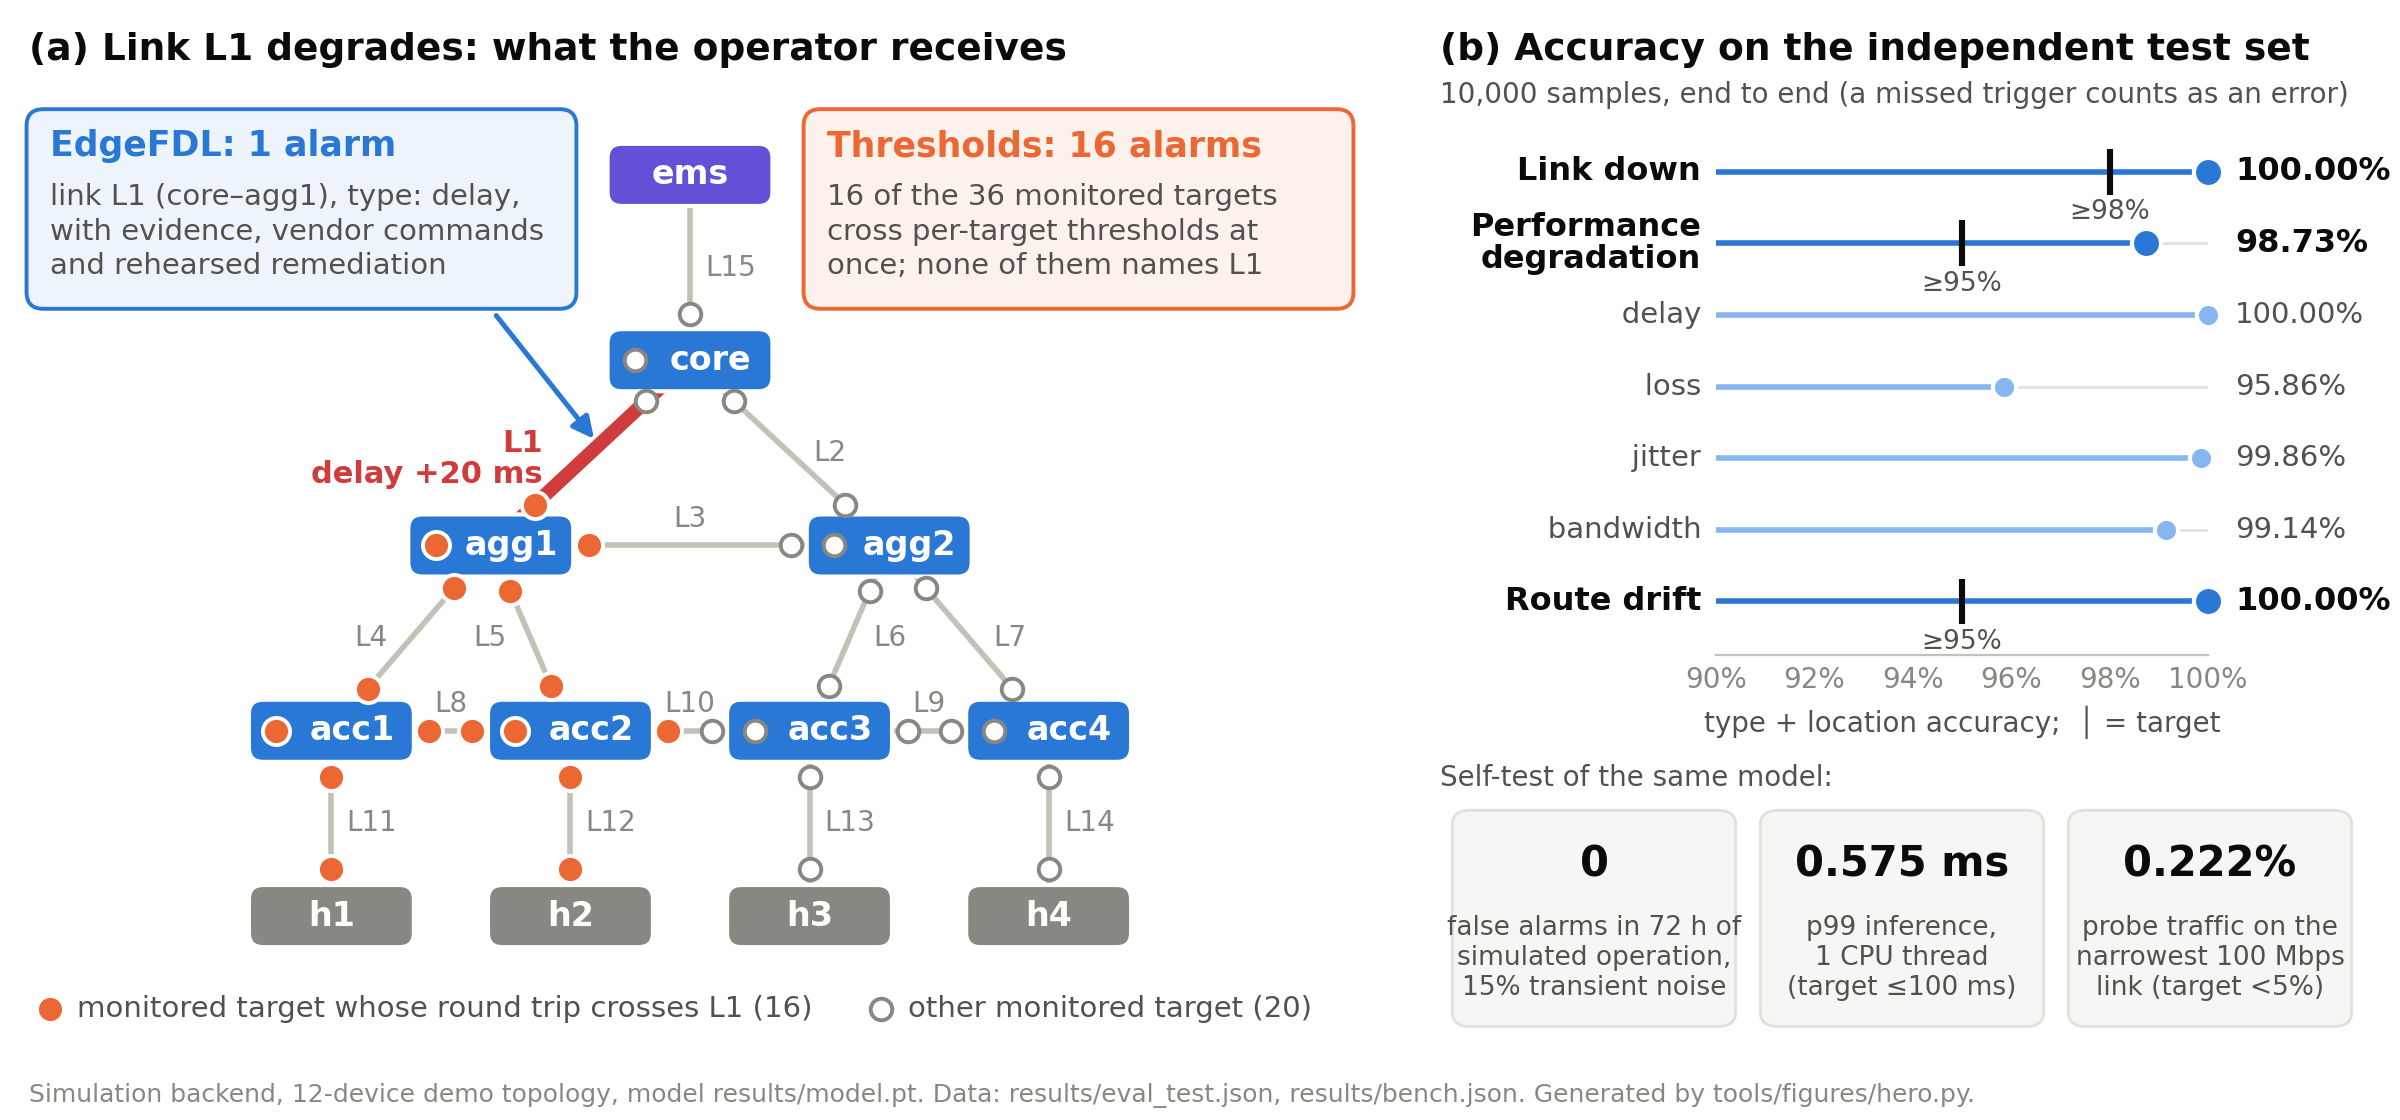
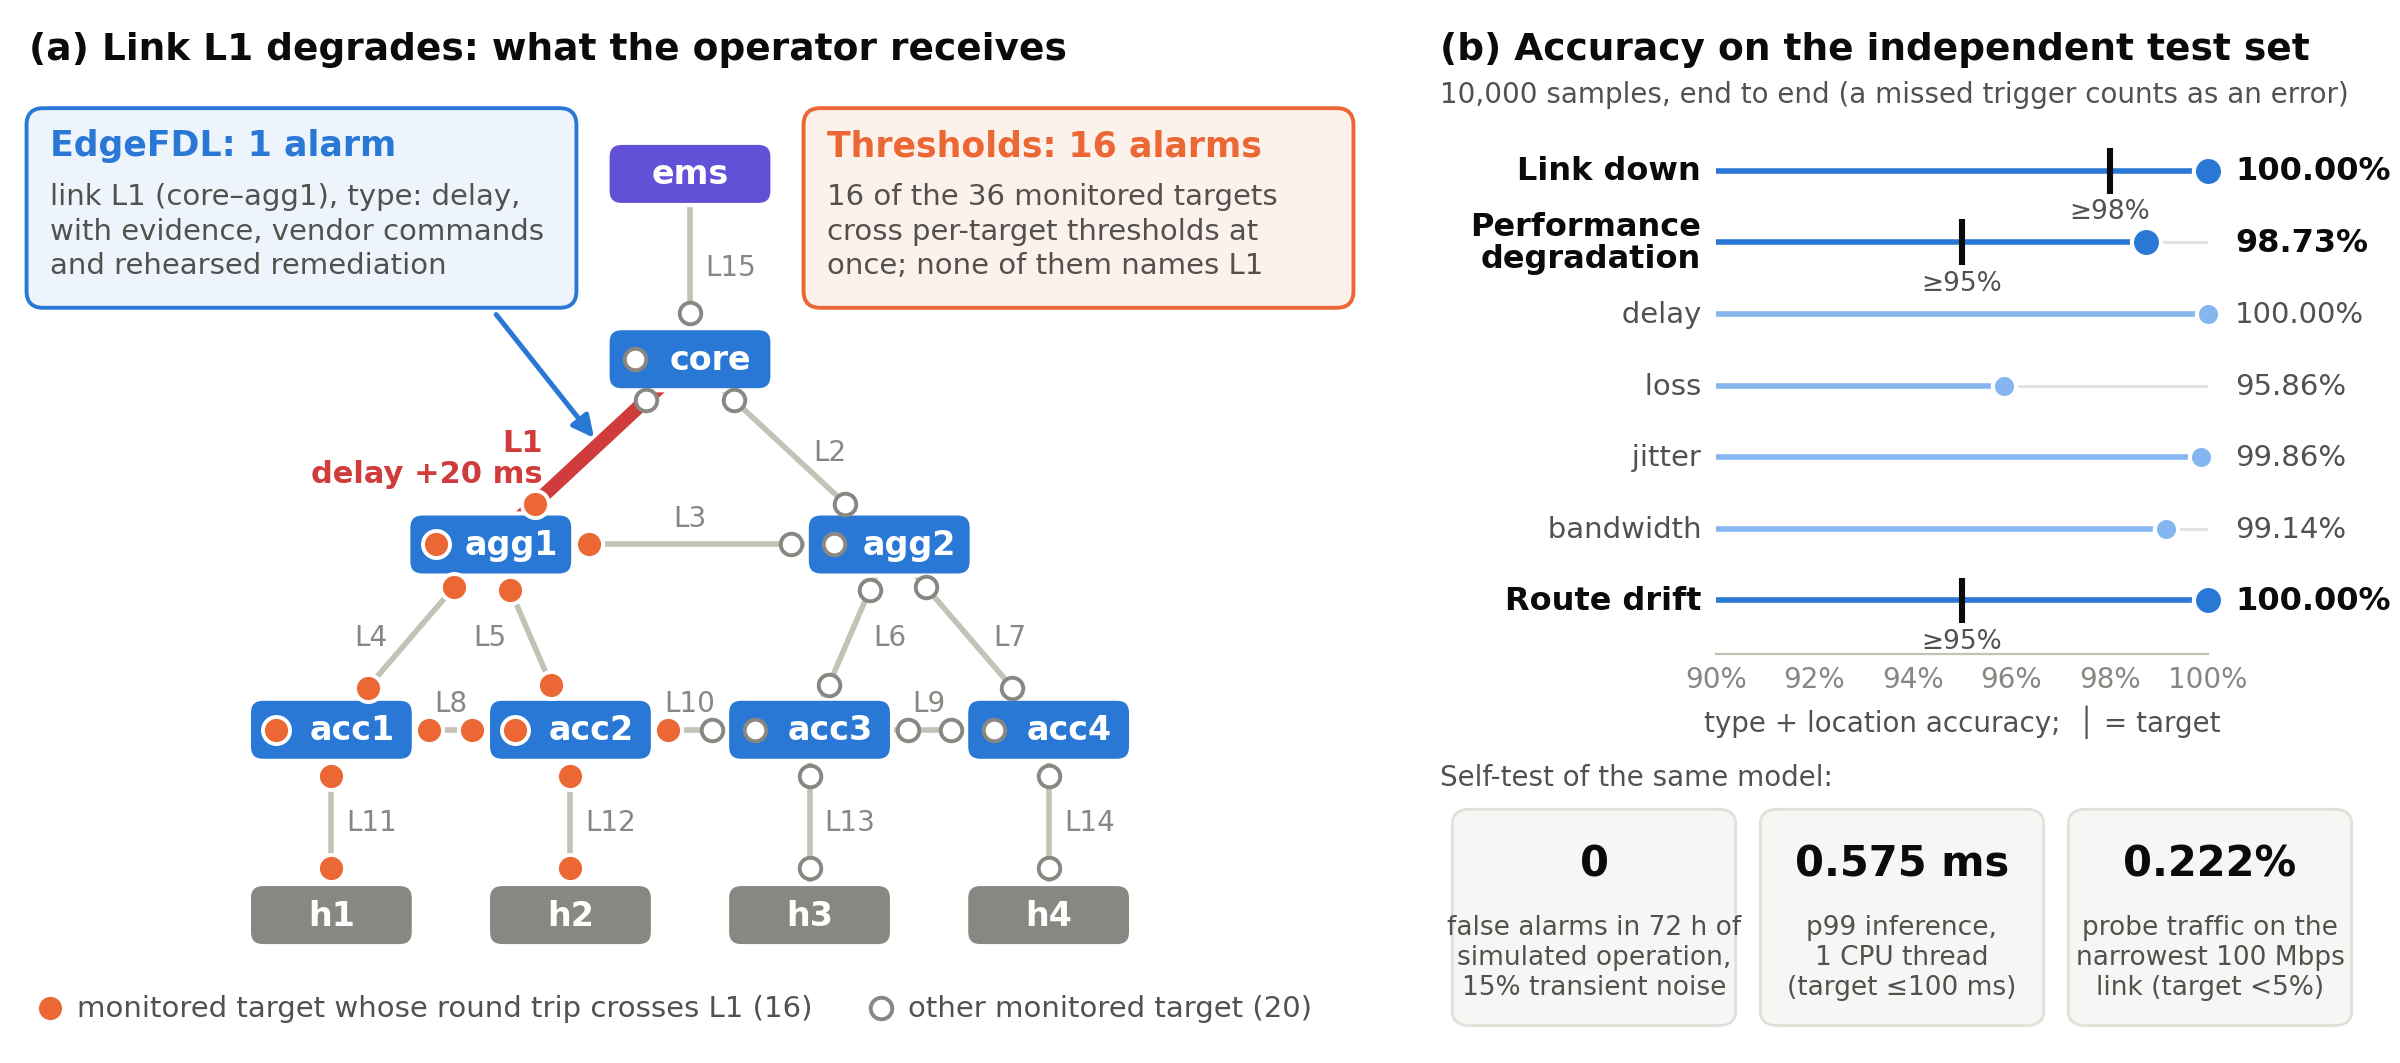
docs: README figure without the footer line

diff --git a/tools/figures/hero.py b/tools/figures/hero.py
@@ -21,6 +21,7 @@ import matplotlib
 matplotlib.use("Agg")
 import matplotlib.pyplot as plt  # noqa: E402
 from matplotlib.patches import FancyBboxPatch  # noqa: E402
+from matplotlib.transforms import Bbox  # noqa: E402
 
 ROOT = Path(__file__).resolve().parents[2]
 sys.path.insert(0, str(ROOT))
@@ -264,13 +265,10 @@ def main():
     fig.text(0.600, 0.915, "%s samples, end to end (a missed trigger counts as an error)"
              % format(ev["overall"]["n"], ","), fontsize=10, color=INK2, ha="left", va="center")
     fig.text(0.600, 0.305, "Self-test of the same model:", fontsize=10, color=INK2, ha="left", va="center")
-    fig.text(0.012, 0.022, "Simulation backend, 12-device demo topology, model results/model.pt. "
-             "Data: results/eval_test.json, results/bench.json. Generated by tools/figures/hero.py.",
-             fontsize=9, color=MUTED, ha="left", va="center")
-
     out = Path(args.out)
     out.parent.mkdir(parents=True, exist_ok=True)
-    fig.savefig(out, dpi=args.dpi, facecolor="white")
+    # Cut the empty band below the panels.
+    fig.savefig(out, dpi=args.dpi, facecolor="white", bbox_inches=Bbox.from_extents(0, 0.28, 12.0, 5.6))
     print("wrote %s (%d of %d monitored targets cross %s)" % (out, n_hit, n_all, FAULT_LINK))
 
 
